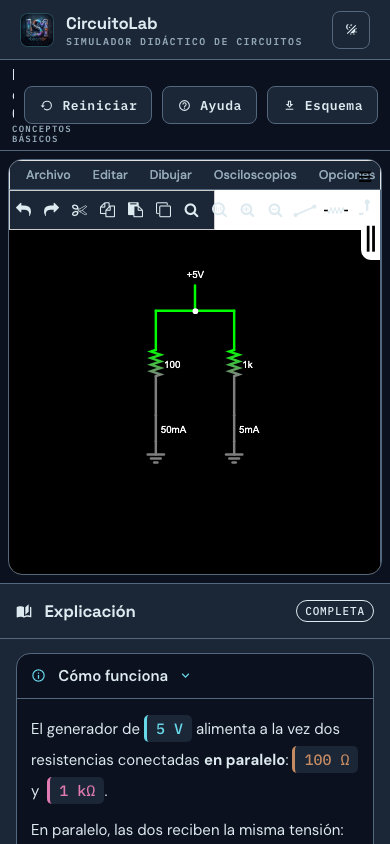
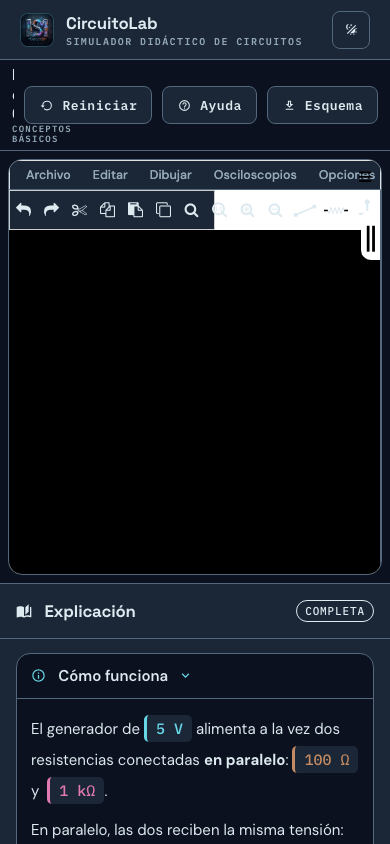
fix(ui): iconos de los desplegables mas pequenos y sin recortar
Encoger el SVG cortaba la salida de las puertas: su dibujo interno queda pegado
al borde. Ahora la celda conserva los 40x40 que calcula el motor y el tamano se
baja escalando el dibujo (52%): 21 px visibles, sin recortes ni solapes.

Changed region(s): [[0.3692, 0.3697, 0.4615, 0.5545], [0.5846, 0.3697, 0.6769, 0.5545], [0.4, 0.3081, 0.5846, 0.3697]]

diff --git a/assets/js/app.js b/assets/js/app.js
@@ -465,21 +465,26 @@ function estilizarMotor() {
       font-size: 15px !important;
     }
     /* Los desplegables de las herramientas llevan la MISMA clase que la barra
-       pero sus iconos son SVG con width/height=40 fijos en el HTML: salian al
-       doble que los de la barra. Se igualan al tamano de la barra. */
-    /* :nth-child(n) sube la especificidad para ganar a la regla de los diez
-       primeros iconos de la barra (que si no, lo deja en 22) */
+       y sus iconos son SVG con width/height=40 fijos en el HTML: salian al
+       doble. NO se puede encoger el SVG: su dibujo interno queda pegado al
+       borde y la salida de la puerta se corta. Se deja la caja como el motor
+       la calcula (40x40, asi no hay recortes ni solapes) y se ESCALA el dibujo. */
     .palette-container > span:nth-child(n) {
-      width: 24px !important;
-      height: 27px !important;
+      /* 40x40 = la caja que calcula el motor. Con menos, el SVG de 40 se sale
+         y la puerta se corta por abajo. El tamano se baja escalando, no midiendo. */
+      width: 40px !important;
+      height: 40px !important;
       display: inline-flex !important;
       align-items: center !important;
       justify-content: center !important;
       vertical-align: top !important;
+      overflow: visible !important;
+      transform: scale(0.52) !important;
+      transform-origin: center center !important;
     }
     .palette-container > span > svg {
-      width: 24px !important;
-      height: 24px !important;
+      width: 40px !important;
+      height: 40px !important;
     }
 
     /* OJO: aqui habia un zoom para hacer sitio. NO se puede usar: los
